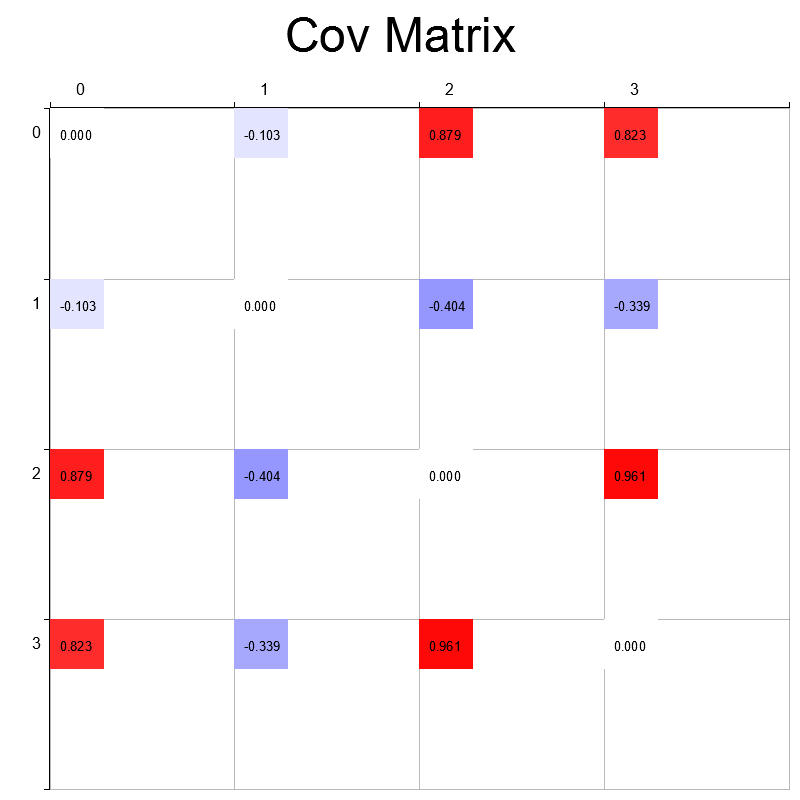
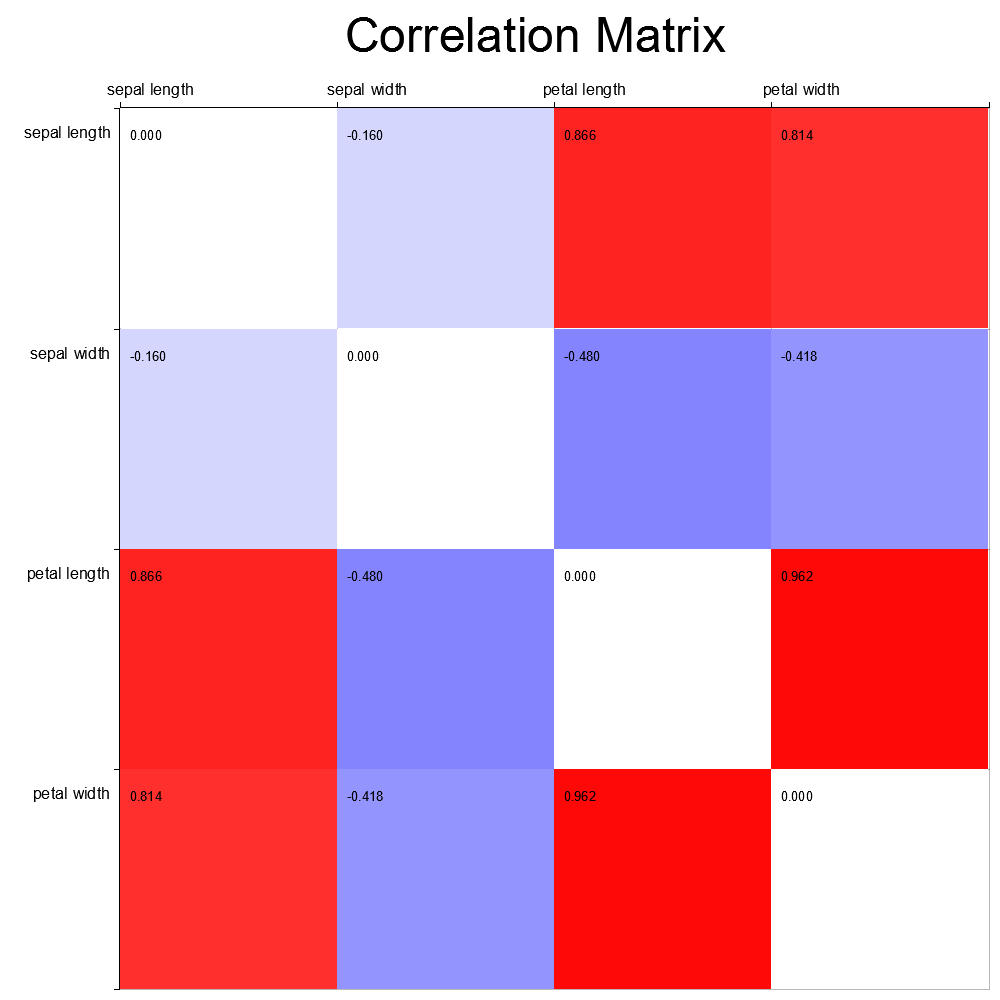
article logistic regression

diff --git a/ml-rust/linear_classification/src/main.rs b/ml-rust/linear_classification/src/main.rs
@@ -12,13 +12,11 @@ use plotters::prelude::*;
 /// Loads the Iris dataset from a CSV file and returns a linfa Dataset
 pub fn load_iris_dataset(split_ratio: f32) -> (Dataset<f64, usize, Ix1>, Dataset<f64, usize, Ix1>){
 
-    // let mut reader = ReaderBuilder::new()
-    //     .has_headers(false)
-    //     .from_path(path)?;
     let mut rng = thread_rng();
-    
+
+    let feature_names = linfa_datasets::iris().feature_names();
     let (train, test): (Dataset<f64, usize, Ix1>, Dataset<f64, usize, Ix1>) = linfa_datasets::iris().shuffle(&mut rng)
-        .with_feature_names(vec!["sepal length", "sepal width", "petal length", "petal width"])
+        .with_feature_names(feature_names)
         .split_with_ratio(split_ratio);
     println!(
         "Fit Multinomial Logistic Regression classifier with #{} training points",
@@ -70,14 +68,11 @@ fn symm_corr_matrix(corr_matrix: &PearsonCorrelation<f64>, train_set: &Dataset<f
     let mut k = 0;
     for i in 0..n_features {
         for j in i+1..n_features {
-            if i == j{
-                matrix_of_coeff[[i, j]] = 1.0;
-            }
-            else {
-                matrix_of_coeff[[i, j]] = corr_coefficients[k] as f32;
-                matrix_of_coeff[[j, i]] = corr_coefficients[k] as f32;
-                k += 1;
-            }
+           
+            matrix_of_coeff[[i, j]] = corr_coefficients[k] as f32;
+            matrix_of_coeff[[j, i]] = corr_coefficients[k] as f32;
+            k += 1;
+            
             
         }
     }
@@ -90,17 +85,20 @@ fn symm_corr_matrix(corr_matrix: &PearsonCorrelation<f64>, train_set: &Dataset<f
 }
 
 
-fn draw_corr_matrix(sym_cor_matrix: &Array2<f32>) -> Result<(), Box<dyn Error>>{
-    let drawing_area_width = 800;
-    let drawing_area_height = 800;
+fn draw_corr_matrix(sym_cor_matrix: &Array2<f32>, feature_names: &Vec<String>) -> Result<(), Box<dyn Error>>{
+    let drawing_area_width = 1000;
+    let drawing_area_height = 1000;
     let root = BitMapBackend::new("corr_matrix.jpg", (drawing_area_width, drawing_area_height)).into_drawing_area();
     root.fill(&WHITE)?;
 
     let corr_matrix_dim = sym_cor_matrix.shape()[0];
+    println!("Correlation matrix dimension {}", corr_matrix_dim);
+    println!("Feature names {:?}", feature_names);
     // create chart
     let mut chart = ChartBuilder::on(&root)
-        .caption("Cov Matrix", ("sans-serif", 60))
+        .caption("Correlation Matrix", ("sans-serif", 60))
         .margin(10)
+        .margin_left(80)
         .top_x_label_area_size(40)
         .y_label_area_size(40)
         .build_cartesian_2d(0i32..corr_matrix_dim as i32, corr_matrix_dim as i32..0i32)?;
@@ -111,6 +109,24 @@ fn draw_corr_matrix(sym_cor_matrix: &Array2<f32>) -> Result<(), Box<dyn Error>>{
         .y_labels(corr_matrix_dim)
         .x_label_offset(30)
         .y_label_offset(25)
+        .x_label_formatter(&|x| {
+            
+            if *x < corr_matrix_dim as i32{
+                feature_names[*x as usize].to_string()
+            }
+            else {
+                "".to_string()
+            }
+        })
+        .y_label_formatter(&|y|{
+            
+            if *y < corr_matrix_dim as i32{
+                feature_names[*y as usize].to_string()
+            }
+            else {
+                "".to_string()
+            }
+        })
         .label_style(("sans-serif", 20))
         .draw()?;
     
@@ -180,7 +196,7 @@ fn main(){
     let corr_matrix = train_set.pearson_correlation();
     println!("Pearson correlation matrix of training features");
     println!("{}", corr_matrix);
-    let _ = draw_corr_matrix(&symm_corr_matrix(&corr_matrix, &train_set));
+    let _ = draw_corr_matrix(&symm_corr_matrix(&corr_matrix, &train_set), &train_set.feature_names());
     let model = fit_logistic_regressor(&train_set);
 
     let (prediction, cm) = predict_class(&test_set, model);
